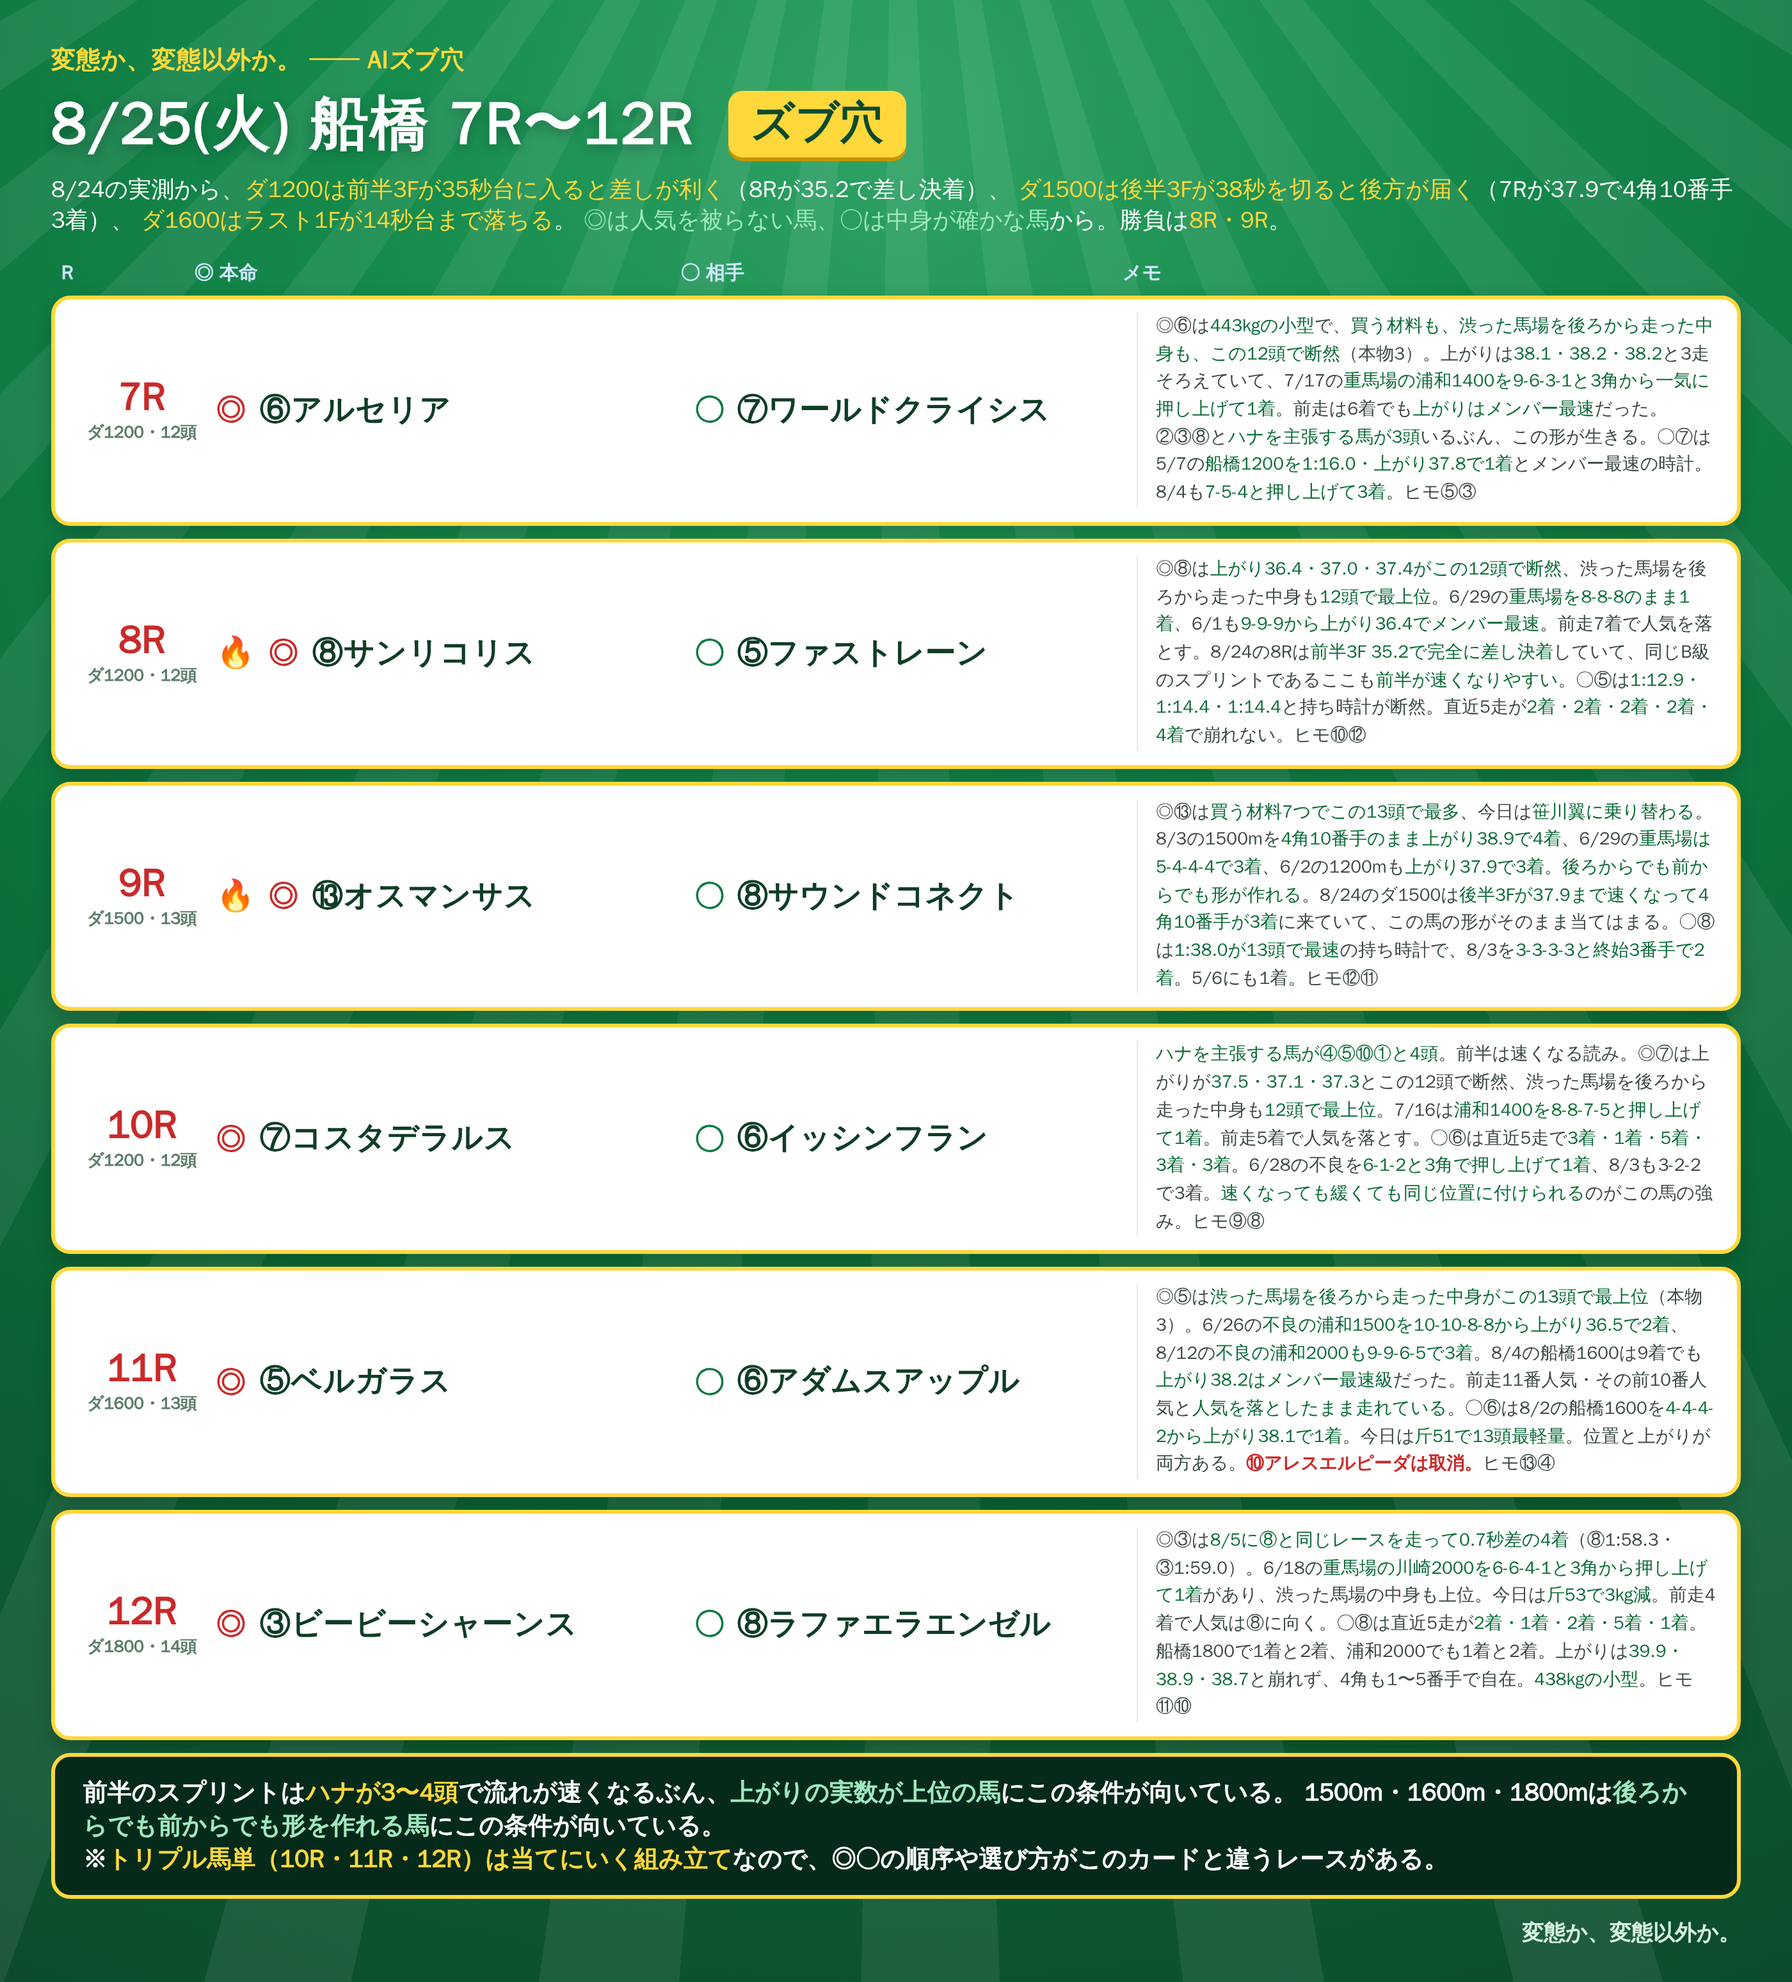
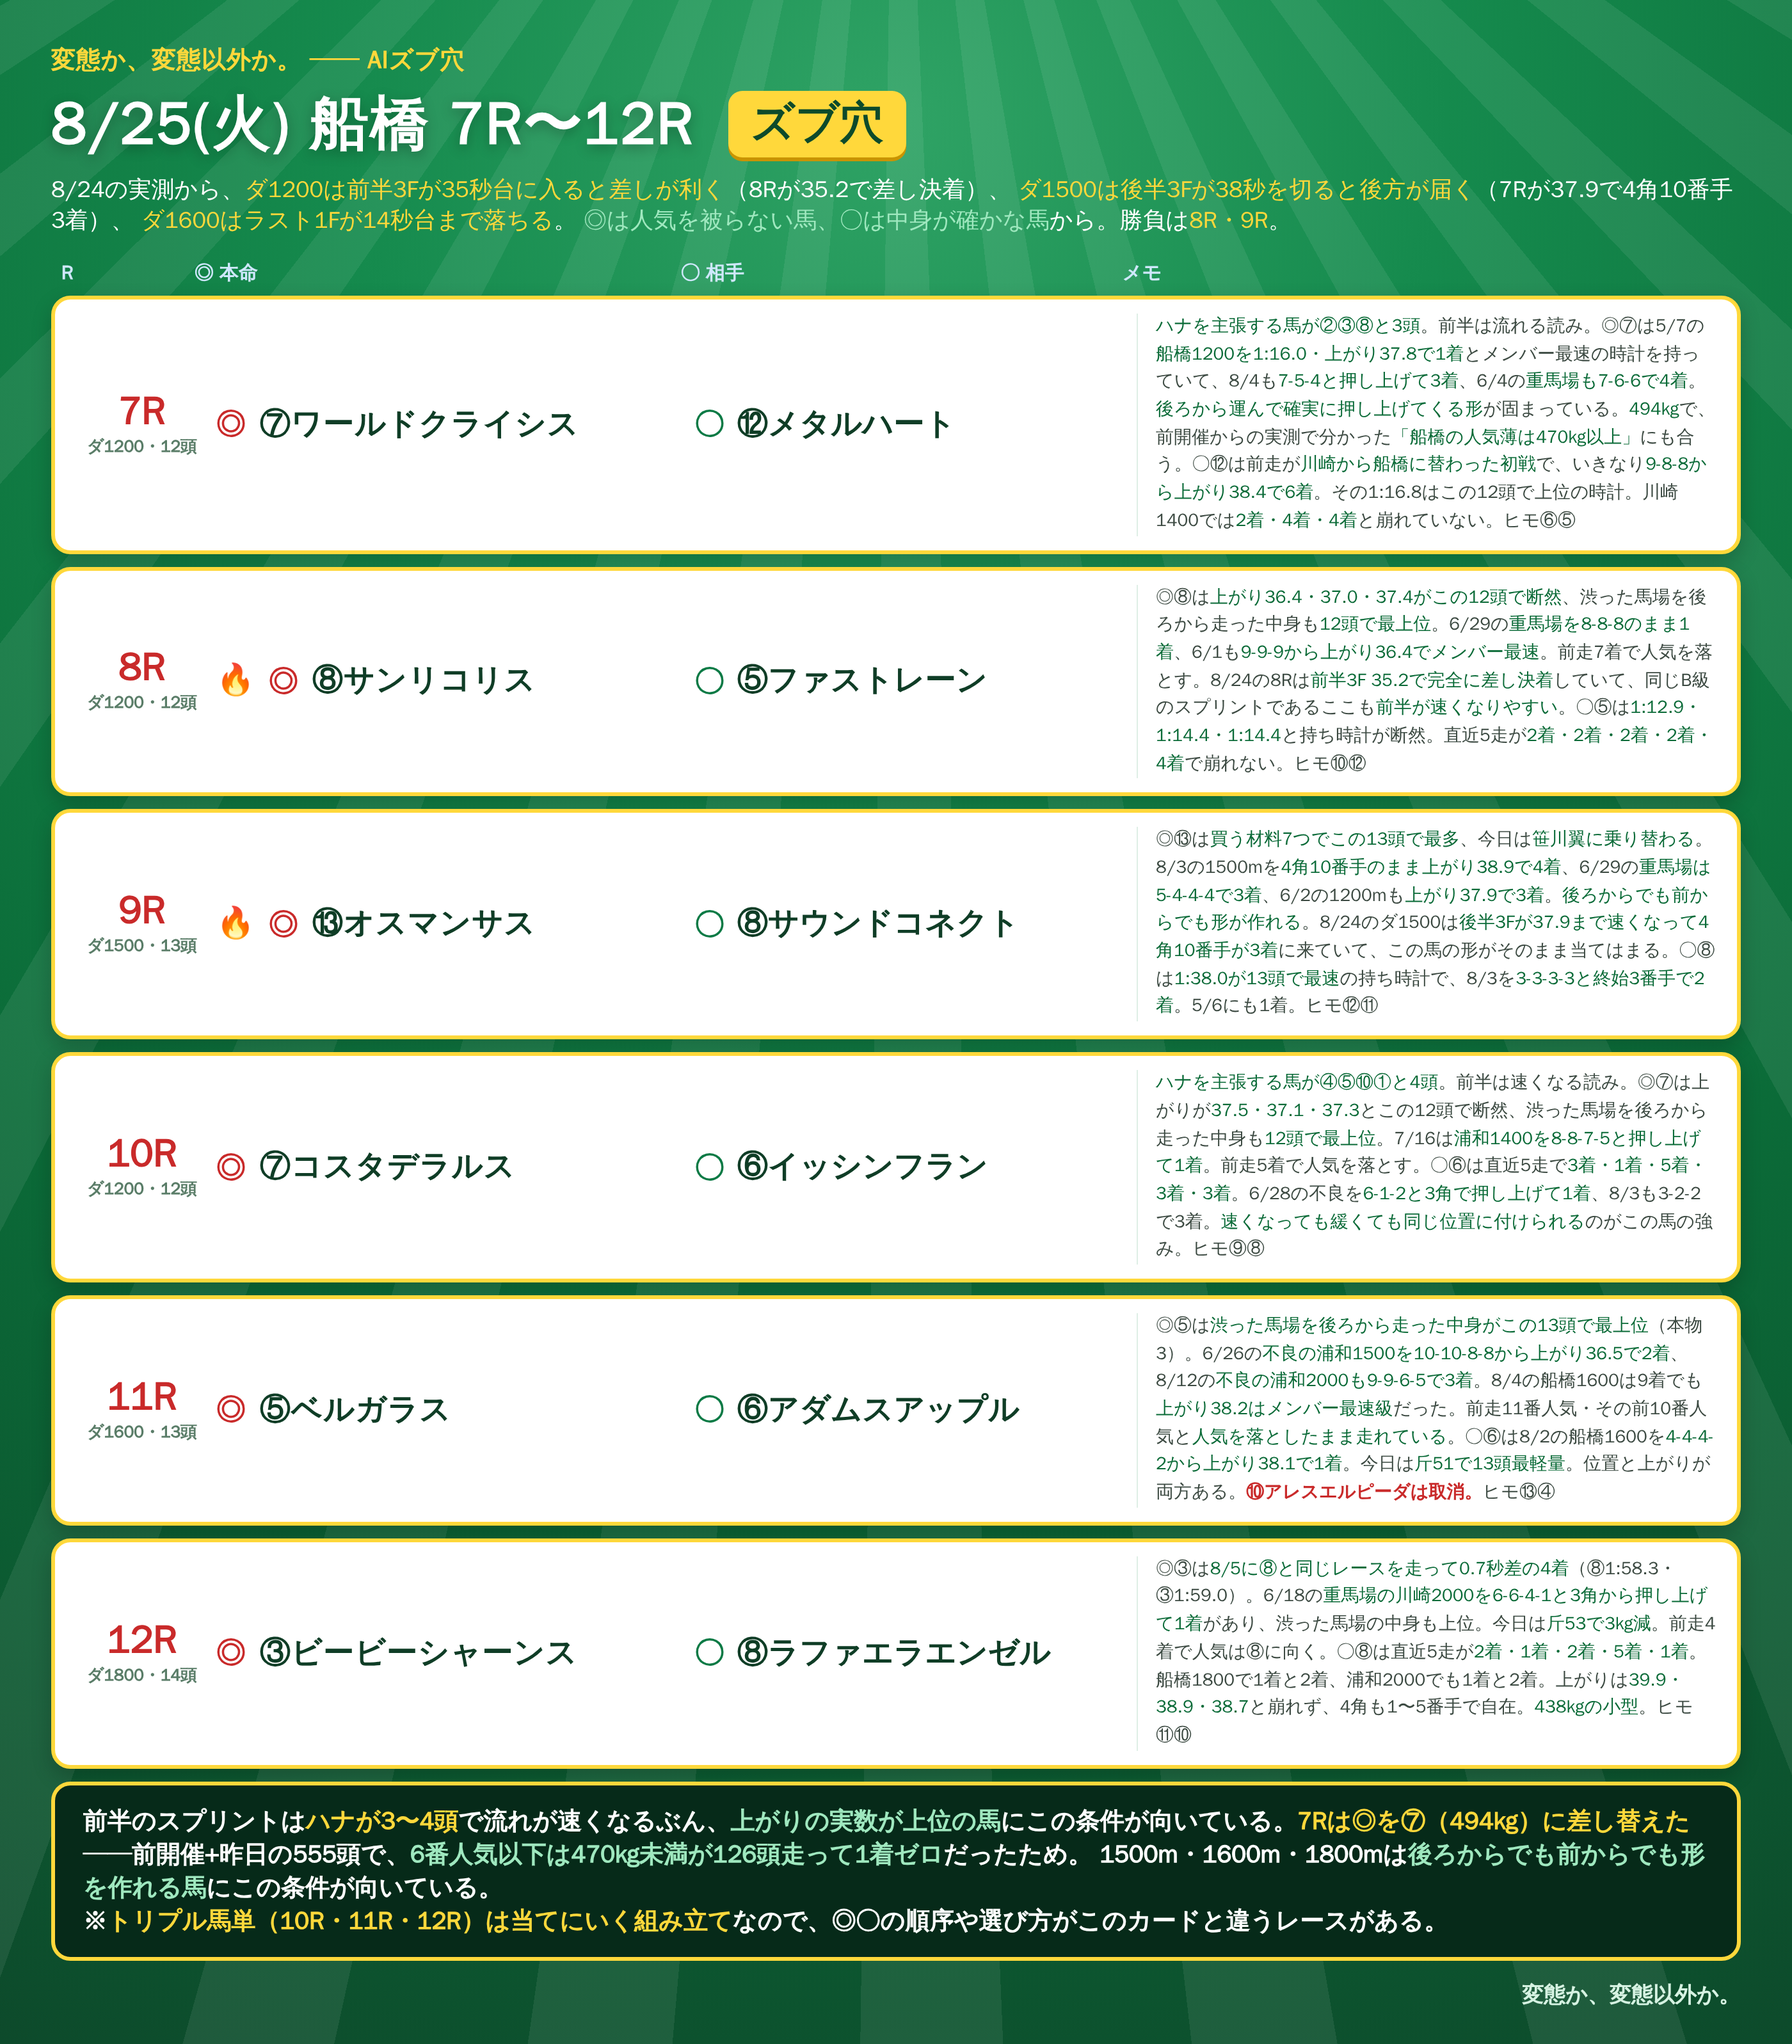
8/25 船橋 7R ◎⑦ワールドクライシス ○⑫メタルハート に差し替え
体重の実測（6番人気以下は470kg未満が126頭走って1着ゼロ）を反映。
◎⑥アルセリア(443kg) → ◎⑦ワールドクライシス(494kg)、⑥はヒモへ。
締め文言も差し替えの理由を含めて更新。

Claude-Session: https://claude.ai/code/session_01RoHscZkr96FNaxQWvUqgEw

diff --git a/notes/live/2026-08-25/funabashi_7_12.html b/notes/live/2026-08-25/funabashi_7_12.html
@@ -57,9 +57,9 @@
 
   <div class="row">
     <div class="rN"><div class="n">7R</div><div class="d">ダ1200・12頭</div></div>
-    <div class="hm"><span class="mk">◎</span><span class="nm">⑥アルセリア</span></div>
-    <div class="at"><span class="mk2">○</span><span class="nm2">⑦ワールドクライシス</span></div>
-    <div class="memo">◎⑥は<b>443kgの小型</b>で、<b>買う材料も、渋った馬場を後ろから走った中身も、この12頭で断然</b>（本物3）。上がりは<b>38.1・38.2・38.2</b>と3走そろえていて、7/17の<b>重馬場の浦和1400を9-6-3-1と3角から一気に押し上げて1着</b>。前走は6着でも<b>上がりはメンバー最速</b>だった。②③⑧と<b>ハナを主張する馬が3頭</b>いるぶん、この形が生きる。○⑦は5/7の<b>船橋1200を1:16.0・上がり37.8で1着</b>とメンバー最速の時計。8/4も<b>7-5-4と押し上げて3着</b>。ヒモ⑤③</div>
+    <div class="hm"><span class="mk">◎</span><span class="nm">⑦ワールドクライシス</span></div>
+    <div class="at"><span class="mk2">○</span><span class="nm2">⑫メタルハート</span></div>
+    <div class="memo"><b>ハナを主張する馬が②③⑧と3頭</b>。前半は流れる読み。◎⑦は5/7の<b>船橋1200を1:16.0・上がり37.8で1着</b>とメンバー最速の時計を持っていて、8/4も<b>7-5-4と押し上げて3着</b>、6/4の<b>重馬場も7-6-6で4着</b>。<b>後ろから運んで確実に押し上げてくる形</b>が固まっている。<b>494kg</b>で、前開催からの実測で分かった<b>「船橋の人気薄は470kg以上」</b>にも合う。○⑫は前走が<b>川崎から船橋に替わった初戦</b>で、いきなり<b>9-8-8から上がり38.4で6着</b>。その1:16.8はこの12頭で上位の時計。川崎1400では<b>2着・4着・4着</b>と崩れていない。ヒモ⑥⑤</div>
   </div>
 
   <div class="row">
@@ -97,7 +97,7 @@
     <div class="memo">◎③は<b>8/5に⑧と同じレースを走って0.7秒差の4着</b>（⑧1:58.3・③1:59.0）。6/18の<b>重馬場の川崎2000を6-6-4-1と3角から押し上げて1着</b>があり、渋った馬場の中身も上位。今日は<b>斤53で3kg減</b>。前走4着で人気は⑧に向く。○⑧は直近5走が<b>2着・1着・2着・5着・1着</b>。船橋1800で1着と2着、浦和2000でも1着と2着。上がりは<b>39.9・38.9・38.7</b>と崩れず、4角も1〜5番手で自在。<b>438kgの小型</b>。ヒモ⑪⑩</div>
   </div>
 
-  <div class="foot">前半のスプリントは<span class="y">ハナが3〜4頭</span>で流れが速くなるぶん、<span class="c">上がりの実数が上位の馬</span>にこの条件が向いている。
+  <div class="foot">前半のスプリントは<span class="y">ハナが3〜4頭</span>で流れが速くなるぶん、<span class="c">上がりの実数が上位の馬</span>にこの条件が向いている。<span class="y">7Rは◎を⑦（494kg）に差し替えた</span>──前開催+昨日の555頭で、<span class="c">6番人気以下は470kg未満が126頭走って1着ゼロ</span>だったため。
   1500m・1600m・1800mは<span class="c">後ろからでも前からでも形を作れる馬</span>にこの条件が向いている。<br>
   ※<span class="y">トリプル馬単（10R・11R・12R）は当てにいく組み立て</span>なので、◎○の順序や選び方がこのカードと違うレースがある。</div>
   <div class="sig">変態か、変態以外か。</div>

diff --git a/notes/live/2026-08-25/README.md b/notes/live/2026-08-25/README.md
@@ -88,7 +88,7 @@
 
 | R | 条件 | ◎ | ○ | ヒモ |
 |---|---|---|---|---|
-| 7R | ダ1200・12頭 | ⑥アルセリア | ⑦ワールドクライシス | ⑤③ |
+| 7R | ダ1200・12頭 | ⑦ワールドクライシス | ⑫メタルハート | ⑥⑤ |
 | 8R | ダ1200・12頭 | 🔥⑧サンリコリス | ⑤ファストレーン | ⑩⑫ |
 | 9R | ダ1500・13頭 | 🔥⑬オスマンサス | ⑧サウンドコネクト | ⑫⑪ |
 | 10R | ダ1200・12頭 | ⑦コスタデラルス | ⑥イッシンフラン | ⑨⑧ |
@@ -101,7 +101,7 @@
 
 | R | 馬 | エッジ | 399 | 本物 | 体重 | 要点 |
 |---|---|---|---|---|---|---|
-| 7R | ⑥アルセリア | **6（12頭最多）** | **11.2** | **3** | 443 | 上がり38.1/38.2/38.2、7/17に重の浦和1400を9-6-3-1で1着 |
+| 7R | ⑦ワールドクライシス | 3 | 6.3 | 1 | **494** | 5/7に船橋1200を1:16.0・上37.8で1着（メンバー最速時計）。8/4も7-5-4で3着 |
 | 8R | ⑧サンリコリス | 3 | **12.5（最上位）** | 1 | 460 | 上がり**36.4**/37.0/37.4が断然。6/29の重を8-8-8のまま1着 |
 | 9R | ⑬オスマンサス | **7（13頭最多）** | 7.1 | 1 | 463 | 笹川翼へ乗替。8/3を4角10番手のまま上38.9で4着 |
 | 10R | ⑦コスタデラルス | 5 | **11.9（最上位）** | 1 | 452 | 上がり37.5/37.1/37.3。7/16に浦和1400を8-8-7-5から1着 |
@@ -210,7 +210,7 @@
 | 3R | ⑥ドジッコ | **502** | 大型 | ─ |
 | 4R | ⑨ルナーサウスポール | **473** | 470+ | ─ |
 | 5R | ⑨トーヤマノゴールド | 453 | 440台 | ⑩ランドフスカ472（8/4に1-1-1で1着） |
-| 7R | ⑥アルセリア | 443 | 440台 | **⑦ワールドクライシス494**（現在の○を◎に） |
+| 7R | ~~⑥アルセリア~~ → **⑦ワールドクライシス** | **494** | 470+ | **差し替え済み** |
 | 8R | ⑧サンリコリス | 460 | 440台 | **⑫フークアンビション491**（399=9.3・本物2） |
 | 9R | ⑬オスマンサス | 463 | 440台 | **⑪レオソルジャー475**（8/3の上がり38.8が最速） |
 | 10R | ⑦コスタデラルス | 452 | 440台 | **⑧ハーモニーロワ490**（399=9.5・本物3） |
@@ -218,3 +218,17 @@
 | 12R | ③ビービーシャーンス | **483** | 470+ | ─ |
 
 ◎11頭のうち470kg以上は5頭。**440〜469kgに5頭（5R・7R・8R・9R・10R）が集まっている**のが今日の弱点。
+
+## 7R ◎差し替え（馬体重の検証を反映）
+
+**◎⑥アルセリア(443kg) → ◎⑦ワールドクライシス(494kg)／○⑫メタルハート(457kg)／ヒモ⑥⑤**
+
+体重の実測（470kg未満の人気薄が126頭走って1着ゼロ）を受けた最初の差し替え。
+◎⑦は5/7の船橋1200を**1:16.0・上がり37.8で1着**とメンバー最速の時計を持ち、
+8/4も7-5-4と押し上げて3着、6/4の重馬場も7-6-6で4着。**後ろから確実に押し上げる形**が固まっている。
+○⑫は前走が**川崎から船橋に替わった初戦**で、いきなり9-8-8から上がり38.4で6着（8番人気）。
+その1:16.8は12頭で上位の時計で、川崎1400では2着・4着・4着と崩れていない。
+
+⑥アルセリアはエッジ6・399=11.2・本物3とカードの数字自体は12頭で断然のままだが、
+**443kgという体重が今回の実測と噛み合わない**ためヒモへ。
+この1鞍が「エッジの数字 vs 体重」の直接対決になる。結果を検証に使う。
